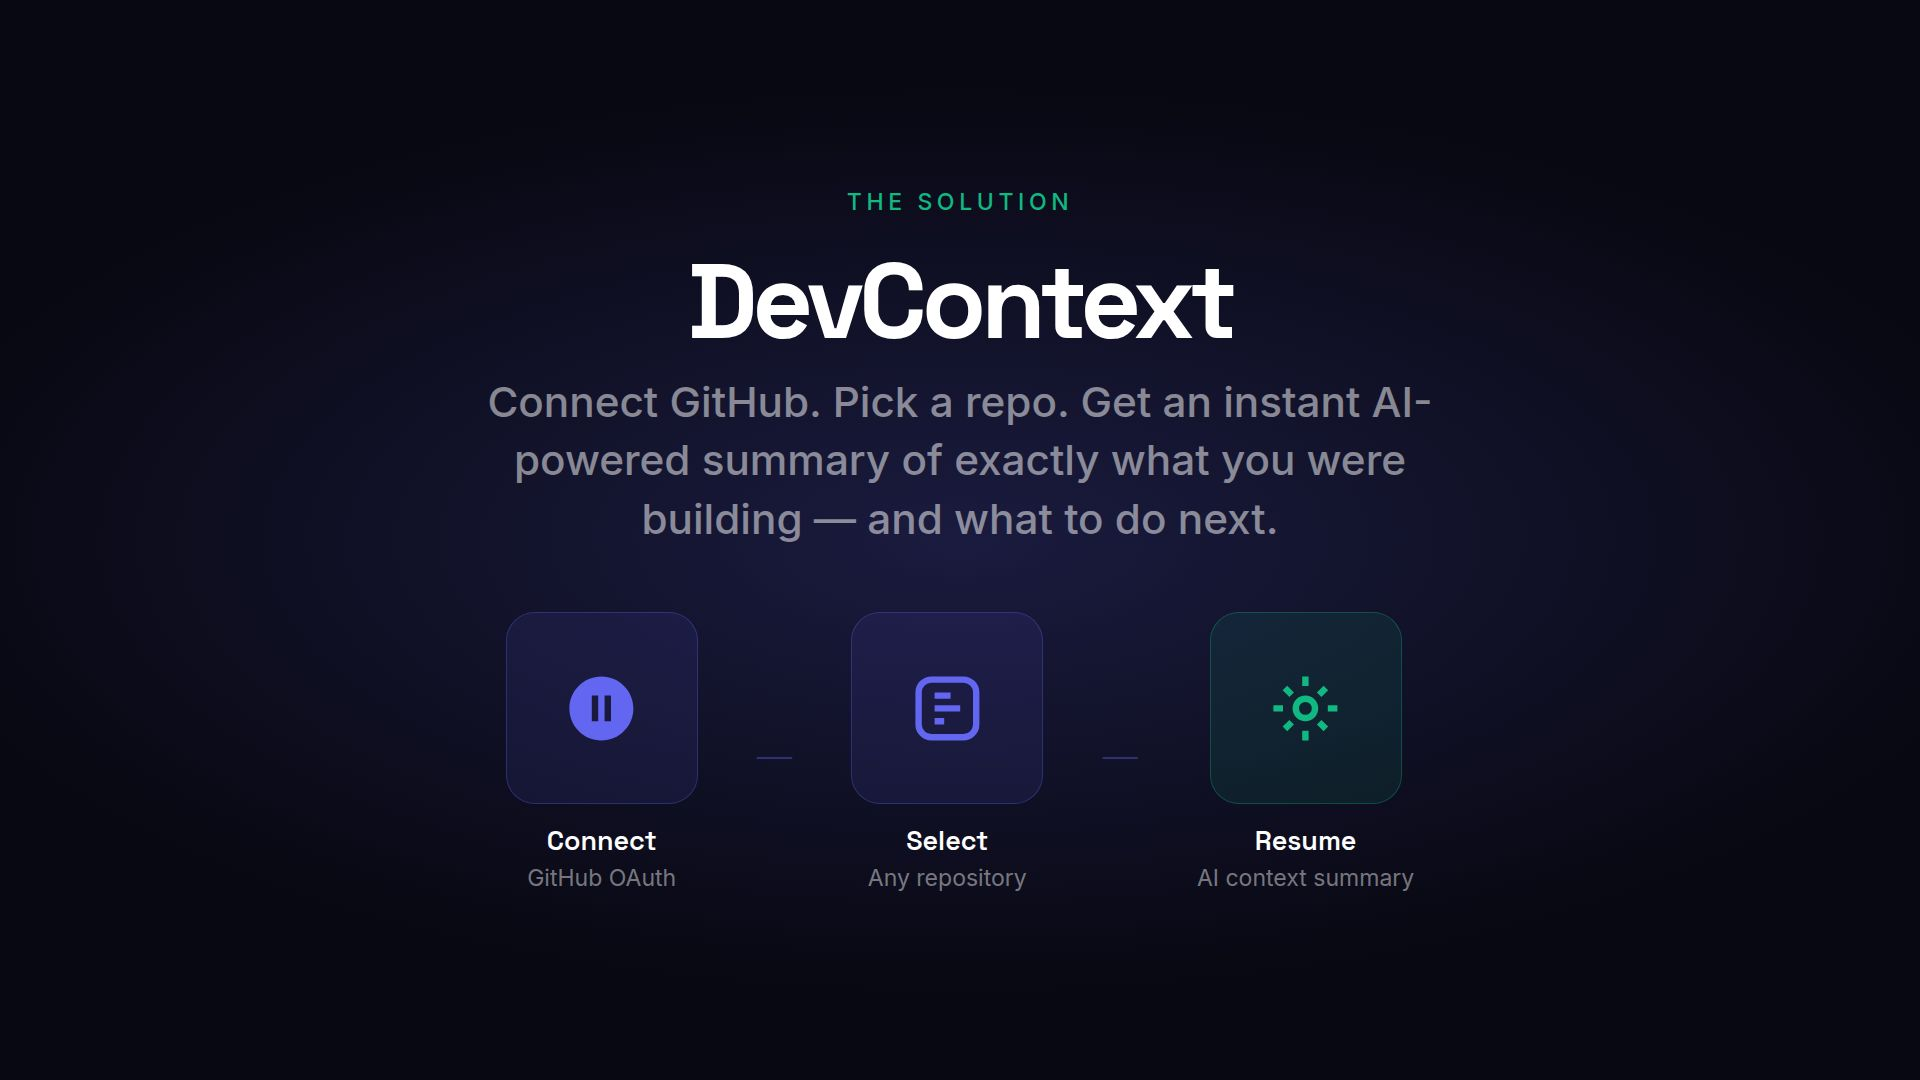
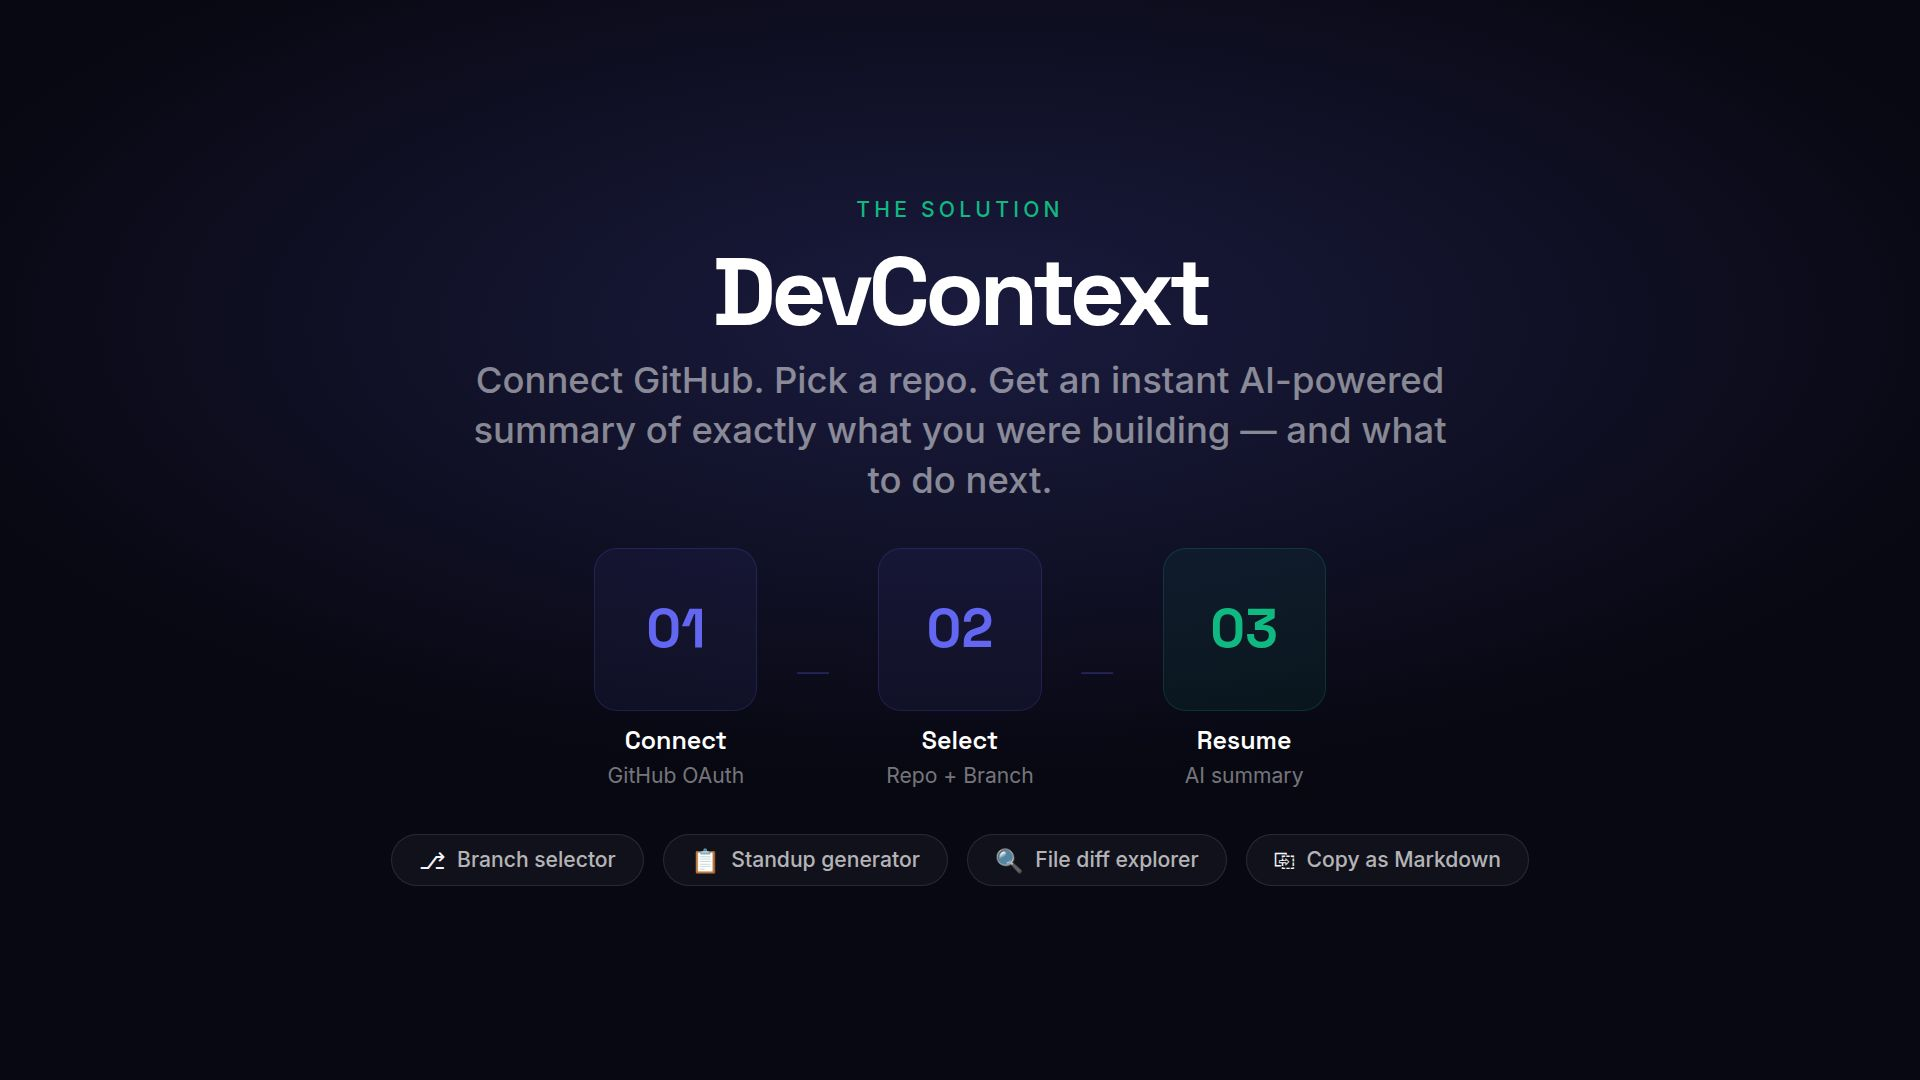
Published your App
Replit-Commit-Author: Deployment
Replit-Commit-Session-Id: 6a3f09c5-c59f-491c-a25b-6768cd7e54b2
Replit-Commit-Checkpoint-Type: full_checkpoint
Replit-Commit-Event-Id: d95897b2-aaa4-4d34-82b9-33291b1de739
Replit-Commit-Screenshot-Url: https://storage.googleapis.com/screenshot-production-us-central1/55757857-7c28-425e-aa53-5498782f3463/6a3f09c5-c59f-491c-a25b-6768cd7e54b2/kM2ERQQ
Replit-Commit-Deployment-Build-Id: 8efff08a-f729-4670-847b-13da0038a6c8
Replit-Helium-Checkpoint-Created: true

Changed region(s): [[0.2188, 0.55, 0.7812, 0.825], [0.25, 0.2139, 0.75, 0.5194], [0.4375, 0.1528, 0.5625, 0.2139]]

diff --git a/artifacts/pitch-deck/src/pages/slides/Slide6TechStack.tsx b/artifacts/pitch-deck/src/pages/slides/Slide6TechStack.tsx
@@ -7,19 +7,19 @@ export default function Slide6TechStack() {
         <div className="font-body text-[1.2vw] font-medium tracking-[0.2em] uppercase text-[#6366f1] mb-[1.5vh]">
           Built To Ship
         </div>
-        <h2 className="font-display text-[4vw] font-bold tracking-tight text-white mb-[5vh]">
+        <h2 className="font-display text-[4vw] font-bold tracking-tight text-white mb-[4.5vh]">
           Stack + Architecture
         </h2>
 
         <div className="flex gap-[3vw] items-start">
-          <div className="flex-1 space-y-[2vh]">
+          <div className="flex-1 space-y-[1.8vh]">
             <div className="flex items-center gap-[1.5vw] p-[2vh_2vw] rounded-[0.8vw] border border-white/8 bg-[#0f0f1e]">
               <div className="w-[2.5vw] h-[2.5vw] rounded-[0.5vw] bg-[#6366f1]/20 flex items-center justify-center shrink-0">
                 <svg viewBox="0 0 24 24" className="w-[1.4vw] h-[1.4vw] text-[#6366f1]" fill="currentColor"><path d="M12 0c-6.626 0-12 5.373-12 12 0 5.302 3.438 9.8 8.207 11.387.599.111.793-.261.793-.577v-2.234c-3.338.726-4.033-1.416-4.033-1.416-.546-1.387-1.333-1.756-1.333-1.756-1.089-.745.083-.729.083-.729 1.205.084 1.839 1.237 1.839 1.237 1.07 1.834 2.807 1.304 3.492.997.107-.775.418-1.305.762-1.604-2.665-.305-5.467-1.334-5.467-5.931 0-1.311.469-2.381 1.236-3.221-.124-.303-.535-1.524.117-3.176 0 0 1.008-.322 3.301 1.23.957-.266 1.983-.399 3.003-.404 1.02.005 2.047.138 3.006.404 2.291-1.552 3.297-1.23 3.297-1.23.653 1.653.242 2.874.118 3.176.77.84 1.235 1.911 1.235 3.221 0 4.609-2.807 5.624-5.479 5.921.43.372.823 1.102.823 2.222v3.293c0 .319.192.694.801.576 4.765-1.589 8.199-6.086 8.199-11.386 0-6.627-5.373-12-12-12z"/></svg>
               </div>
               <div>
                 <p className="font-display text-[1.4vw] font-semibold text-white">GitHub REST API</p>
-                <p className="font-body text-[1.2vw] text-white/45">Repos, commits, diffs — real developer data</p>
+                <p className="font-body text-[1.15vw] text-white/45">Repos, branches, commits, file diffs — real data</p>
               </div>
             </div>
 
@@ -29,7 +29,7 @@ export default function Slide6TechStack() {
               </div>
               <div>
                 <p className="font-display text-[1.4vw] font-semibold text-white">OpenAI (via Replit AI)</p>
-                <p className="font-body text-[1.2vw] text-white/45">Context synthesis — no API key required</p>
+                <p className="font-body text-[1.15vw] text-white/45">Next Steps + Standup modes — no API key required</p>
               </div>
             </div>
 
@@ -38,31 +38,30 @@ export default function Slide6TechStack() {
                 <svg viewBox="0 0 24 24" className="w-[1.4vw] h-[1.4vw] text-[#6366f1]" fill="none" stroke="currentColor" strokeWidth="2"><rect x="3" y="3" width="18" height="18" rx="2"/><path d="M3 9h18M9 21V9"/></svg>
               </div>
               <div>
-                <p className="font-display text-[1.4vw] font-semibold text-white">React + Express 5</p>
-                <p className="font-body text-[1.2vw] text-white/45">Full-stack TypeScript — JWT auth, REST API</p>
+                <p className="font-display text-[1.4vw] font-semibold text-white">React + Vite + Express 5</p>
+                <p className="font-body text-[1.15vw] text-white/45">Full-stack TypeScript — JWT auth, REST API, pnpm monorepo</p>
               </div>
             </div>
           </div>
 
           <div className="w-[28vw] p-[3vh_2.5vw] rounded-[1vw] border border-[#10b981]/20 bg-[#10b981]/5">
-            <p className="font-body text-[1.2vw] font-medium tracking-[0.15em] uppercase text-[#10b981] mb-[2vh]">Why It Matters</p>
-            <div className="space-y-[1.5vh]">
-              <div className="flex items-start gap-[0.8vw]">
-                <div className="mt-[0.5vh] w-[0.4vw] h-[0.4vw] rounded-full bg-[#10b981] shrink-0" />
-                <p className="font-body text-[1.3vw] text-white/65 leading-snug">Zero configuration — just OAuth</p>
-              </div>
-              <div className="flex items-start gap-[0.8vw]">
-                <div className="mt-[0.5vh] w-[0.4vw] h-[0.4vw] rounded-full bg-[#10b981] shrink-0" />
-                <p className="font-body text-[1.3vw] text-white/65 leading-snug">Stateless JWT auth — scales to any number of users</p>
-              </div>
-              <div className="flex items-start gap-[0.8vw]">
-                <div className="mt-[0.5vh] w-[0.4vw] h-[0.4vw] rounded-full bg-[#10b981] shrink-0" />
-                <p className="font-body text-[1.3vw] text-white/65 leading-snug">Parallel API calls — results in under 10 seconds</p>
-              </div>
-              <div className="flex items-start gap-[0.8vw]">
-                <div className="mt-[0.5vh] w-[0.4vw] h-[0.4vw] rounded-full bg-[#10b981] shrink-0" />
-                <p className="font-body text-[1.3vw] text-white/65 leading-snug">Deployed and live on Replit</p>
-              </div>
+            <p className="font-body text-[1.1vw] font-medium tracking-[0.15em] uppercase text-[#10b981] mb-[2vh]">Features Shipped</p>
+            <div className="space-y-[1.3vh]">
+              {[
+                "GitHub OAuth → instant login",
+                "Branch selector — analyze any branch",
+                "Parallel commit + diff fetching (~1s)",
+                "Next Steps mode — resume your work",
+                "Standup mode — paste into Slack",
+                "Commit file explorer — click to expand",
+                "Copy summary as Markdown",
+                "Stateless JWT — scales to any load",
+              ].map((item, i) => (
+                <div key={i} className="flex items-start gap-[0.8vw]">
+                  <div className="mt-[0.6vh] w-[0.35vw] h-[0.35vw] rounded-full bg-[#10b981] shrink-0" />
+                  <p className="font-body text-[1.2vw] text-white/65 leading-snug">{item}</p>
+                </div>
+              ))}
             </div>
           </div>
         </div>

diff --git a/artifacts/pitch-deck/src/pages/slides/Slide3Solution.tsx b/artifacts/pitch-deck/src/pages/slides/Slide3Solution.tsx
@@ -1,57 +1,60 @@
 export default function Slide3Solution() {
   return (
     <div className="relative w-screen h-screen overflow-hidden bg-[#080812]">
-      <div className="absolute inset-0 opacity-20" style={{background: "radial-gradient(ellipse 80% 60% at 50% 50%, #6366f1 0%, transparent 70%)"}} />
+      <div className="absolute inset-0 opacity-20" style={{background: "radial-gradient(ellipse 80% 60% at 50% 30%, #6366f1 0%, transparent 70%)"}} />
 
-      <div className="relative h-full flex flex-col items-center justify-center text-center px-[10vw]">
-        <div className="font-body text-[1.2vw] font-medium tracking-[0.2em] uppercase text-[#10b981] mb-[3vh]">
+      <div className="relative h-full flex flex-col items-center justify-center text-center px-[8vw]">
+        <div className="font-body text-[1.1vw] font-medium tracking-[0.2em] uppercase text-[#10b981] mb-[2vh]">
           The Solution
         </div>
 
-        <h2 className="font-display text-[5.5vw] font-bold tracking-tighter text-white leading-[0.95] mb-[2vh]">
+        <h2 className="font-display text-[5vw] font-bold tracking-tighter text-white leading-[0.95] mb-[1.5vh]">
           DevContext
         </h2>
 
-        <p className="font-body text-[2.2vw] text-white/50 font-medium mb-[6vh] max-w-[55vw] leading-snug">
+        <p className="font-body text-[1.9vw] text-white/50 font-medium mb-[4vh] max-w-[52vw] leading-snug">
           Connect GitHub. Pick a repo. Get an instant AI-powered summary of exactly what you were building — and what to do next.
         </p>
 
-        <div className="flex items-center gap-[3vw]">
-          <div className="text-center">
-            <div className="w-[10vw] h-[10vw] rounded-[1.5vw] border border-[#6366f1]/30 bg-[#6366f1]/10 flex items-center justify-center mx-auto mb-[1.5vh]">
-              <svg viewBox="0 0 24 24" className="w-[4vw] h-[4vw] text-[#6366f1]" fill="currentColor">
-                <path d="M12 2C6.48 2 2 6.48 2 12s4.48 10 10 10 10-4.48 10-10S17.52 2 12 2zm-1 14H9V8h2v8zm4 0h-2V8h2v8z"/>
-              </svg>
+        {/* 3-step flow */}
+        <div className="flex items-center gap-[2.5vw] mb-[4vh]">
+          {[
+            { num: "01", label: "Connect", sub: "GitHub OAuth", color: "#6366f1" },
+            { num: "02", label: "Select", sub: "Repo + Branch", color: "#6366f1" },
+            { num: "03", label: "Resume", sub: "AI summary", color: "#10b981" },
+          ].map((step, i) => (
+            <div key={i} className="flex items-center gap-[2vw]">
+              <div className="text-center">
+                <div
+                  className="w-[8.5vw] h-[8.5vw] rounded-[1.2vw] flex items-center justify-center mx-auto mb-[1vh]"
+                  style={{ border: `1px solid ${step.color}30`, background: `${step.color}12` }}
+                >
+                  <span className="font-display text-[2.8vw] font-bold" style={{ color: step.color }}>{step.num}</span>
+                </div>
+                <p className="font-display text-[1.3vw] font-semibold text-white">{step.label}</p>
+                <p className="font-body text-[1.1vw] text-white/45">{step.sub}</p>
+              </div>
+              {i < 2 && <div className="text-[1.8vw] text-[#6366f1]/30 font-light">—</div>}
             </div>
-            <p className="font-display text-[1.4vw] font-semibold text-white">Connect</p>
-            <p className="font-body text-[1.2vw] text-white/45">GitHub OAuth</p>
-          </div>
+          ))}
+        </div>
 
-          <div className="text-[2vw] text-[#6366f1]/40 font-light">—</div>
-
-          <div className="text-center">
-            <div className="w-[10vw] h-[10vw] rounded-[1.5vw] border border-[#6366f1]/30 bg-[#6366f1]/10 flex items-center justify-center mx-auto mb-[1.5vh]">
-              <svg viewBox="0 0 24 24" className="w-[4vw] h-[4vw] text-[#6366f1]" fill="none" stroke="currentColor" strokeWidth="2">
-                <path d="M3 7a4 4 0 0 1 4-4h10a4 4 0 0 1 4 4v10a4 4 0 0 1-4 4H7a4 4 0 0 1-4-4z"/>
-                <path d="M8 12h8M8 8h5M8 16h3"/>
-              </svg>
+        {/* Feature pills */}
+        <div className="flex flex-wrap items-center justify-center gap-[1vw]">
+          {[
+            { icon: "⎇", label: "Branch selector" },
+            { icon: "📋", label: "Standup generator" },
+            { icon: "🔍", label: "File diff explorer" },
+            { icon: "⎘", label: "Copy as Markdown" },
+          ].map((f, i) => (
+            <div
+              key={i}
+              className="flex items-center gap-[0.6vw] px-[1.4vw] py-[0.7vh] rounded-full border border-white/10 bg-white/[0.04]"
+            >
+              <span className="text-[1.2vw]">{f.icon}</span>
+              <span className="font-body text-[1.1vw] text-white/70 font-medium">{f.label}</span>
             </div>
-            <p className="font-display text-[1.4vw] font-semibold text-white">Select</p>
-            <p className="font-body text-[1.2vw] text-white/45">Any repository</p>
-          </div>
-
-          <div className="text-[2vw] text-[#6366f1]/40 font-light">—</div>
-
-          <div className="text-center">
-            <div className="w-[10vw] h-[10vw] rounded-[1.5vw] border border-[#10b981]/30 bg-[#10b981]/10 flex items-center justify-center mx-auto mb-[1.5vh]">
-              <svg viewBox="0 0 24 24" className="w-[4vw] h-[4vw] text-[#10b981]" fill="none" stroke="currentColor" strokeWidth="2">
-                <circle cx="12" cy="12" r="3"/>
-                <path d="M12 2v3M12 19v3M2 12h3M19 12h3M5.6 5.6l2.1 2.1M16.3 16.3l2.1 2.1M5.6 18.4l2.1-2.1M16.3 7.7l2.1-2.1"/>
-              </svg>
-            </div>
-            <p className="font-display text-[1.4vw] font-semibold text-white">Resume</p>
-            <p className="font-body text-[1.2vw] text-white/45">AI context summary</p>
-          </div>
+          ))}
         </div>
       </div>
     </div>

diff --git a/artifacts/pitch-deck/src/pages/slides/Slide4HowItWorks.tsx b/artifacts/pitch-deck/src/pages/slides/Slide4HowItWorks.tsx
@@ -7,48 +7,48 @@ export default function Slide4HowItWorks() {
         <div className="font-body text-[1.2vw] font-medium tracking-[0.2em] uppercase text-[#6366f1] mb-[1.5vh]">
           Under the Hood
         </div>
-        <h2 className="font-display text-[4vw] font-bold tracking-tight text-white mb-[5vh]">
+        <h2 className="font-display text-[4vw] font-bold tracking-tight text-white mb-[4.5vh]">
           How It Works
         </h2>
 
-        <div className="grid grid-cols-2 gap-[2vw]">
-          <div className="p-[3vh_2.5vw] rounded-[1vw] border border-white/8 bg-[#0f0f1e]">
-            <div className="flex items-center gap-[1vw] mb-[1.5vh]">
-              <span className="font-display text-[2.5vw] font-bold text-[#6366f1]/30">01</span>
-              <h3 className="font-display text-[1.6vw] font-semibold text-white">GitHub OAuth Login</h3>
+        <div className="grid grid-cols-2 gap-[1.8vw]">
+          <div className="p-[2.5vh_2.2vw] rounded-[1vw] border border-white/8 bg-[#0f0f1e]">
+            <div className="flex items-center gap-[1vw] mb-[1.2vh]">
+              <span className="font-display text-[2.2vw] font-bold text-[#6366f1]/30">01</span>
+              <h3 className="font-display text-[1.5vw] font-semibold text-white">GitHub OAuth Login</h3>
             </div>
-            <p className="font-body text-[1.4vw] text-white/55 leading-snug">
-              One-click GitHub sign-in. We request read access to your repositories — no passwords, no setup.
+            <p className="font-body text-[1.3vw] text-white/55 leading-snug">
+              One-click sign-in. Read access to your repos — no passwords, no setup, no API keys.
             </p>
           </div>
 
-          <div className="p-[3vh_2.5vw] rounded-[1vw] border border-white/8 bg-[#0f0f1e]">
-            <div className="flex items-center gap-[1vw] mb-[1.5vh]">
-              <span className="font-display text-[2.5vw] font-bold text-[#6366f1]/30">02</span>
-              <h3 className="font-display text-[1.6vw] font-semibold text-white">Commit Timeline Fetch</h3>
+          <div className="p-[2.5vh_2.2vw] rounded-[1vw] border border-white/8 bg-[#0f0f1e]">
+            <div className="flex items-center gap-[1vw] mb-[1.2vh]">
+              <span className="font-display text-[2.2vw] font-bold text-[#6366f1]/30">02</span>
+              <h3 className="font-display text-[1.5vw] font-semibold text-white">Select Repo + Branch</h3>
             </div>
-            <p className="font-body text-[1.4vw] text-white/55 leading-snug">
-              We pull your 15 most recent commits — messages, changed files, diffs — from the GitHub REST API in parallel.
+            <p className="font-body text-[1.3vw] text-white/55 leading-snug">
+              Pick any repo, then drill into any branch — main, feature, hotfix. We fetch the 15 most recent commits and diffs in parallel.
             </p>
           </div>
 
-          <div className="p-[3vh_2.5vw] rounded-[1vw] border border-white/8 bg-[#0f0f1e]">
-            <div className="flex items-center gap-[1vw] mb-[1.5vh]">
-              <span className="font-display text-[2.5vw] font-bold text-[#6366f1]/30">03</span>
-              <h3 className="font-display text-[1.6vw] font-semibold text-white">AI Context Synthesis</h3>
+          <div className="p-[2.5vh_2.2vw] rounded-[1vw] border border-white/8 bg-[#0f0f1e]">
+            <div className="flex items-center gap-[1vw] mb-[1.2vh]">
+              <span className="font-display text-[2.2vw] font-bold text-[#6366f1]/30">03</span>
+              <h3 className="font-display text-[1.5vw] font-semibold text-white">AI Context Synthesis</h3>
             </div>
-            <p className="font-body text-[1.4vw] text-white/55 leading-snug">
-              OpenAI reads your commit history and generates: what you were building, key changes made, and concrete next steps.
+            <p className="font-body text-[1.3vw] text-white/55 leading-snug">
+              Choose your mode: <span className="text-[#6366f1] font-medium">Next Steps</span> for deep context recovery, or <span className="text-[#10b981] font-medium">Standup</span> for a ready-to-paste daily update. AI reads diffs and synthesizes meaning.
             </p>
           </div>
 
-          <div className="p-[3vh_2.5vw] rounded-[1vw] border border-[#10b981]/20 bg-[#10b981]/5">
-            <div className="flex items-center gap-[1vw] mb-[1.5vh]">
-              <span className="font-display text-[2.5vw] font-bold text-[#10b981]/30">04</span>
-              <h3 className="font-display text-[1.6vw] font-semibold text-[#10b981]">Back in Flow</h3>
+          <div className="p-[2.5vh_2.2vw] rounded-[1vw] border border-[#10b981]/20 bg-[#10b981]/5">
+            <div className="flex items-center gap-[1vw] mb-[1.2vh]">
+              <span className="font-display text-[2.2vw] font-bold text-[#10b981]/30">04</span>
+              <h3 className="font-display text-[1.5vw] font-semibold text-[#10b981]">Back in Flow</h3>
             </div>
-            <p className="font-body text-[1.4vw] text-white/55 leading-snug">
-              You get a clear, actionable summary in under 10 seconds. No git log archaeology. No ramp-up time.
+            <p className="font-body text-[1.3vw] text-white/55 leading-snug">
+              Expand any commit to see files changed. Copy the full summary as Markdown — paste to Slack, Notion, or your PR description. Under 10 seconds total.
             </p>
           </div>
         </div>
